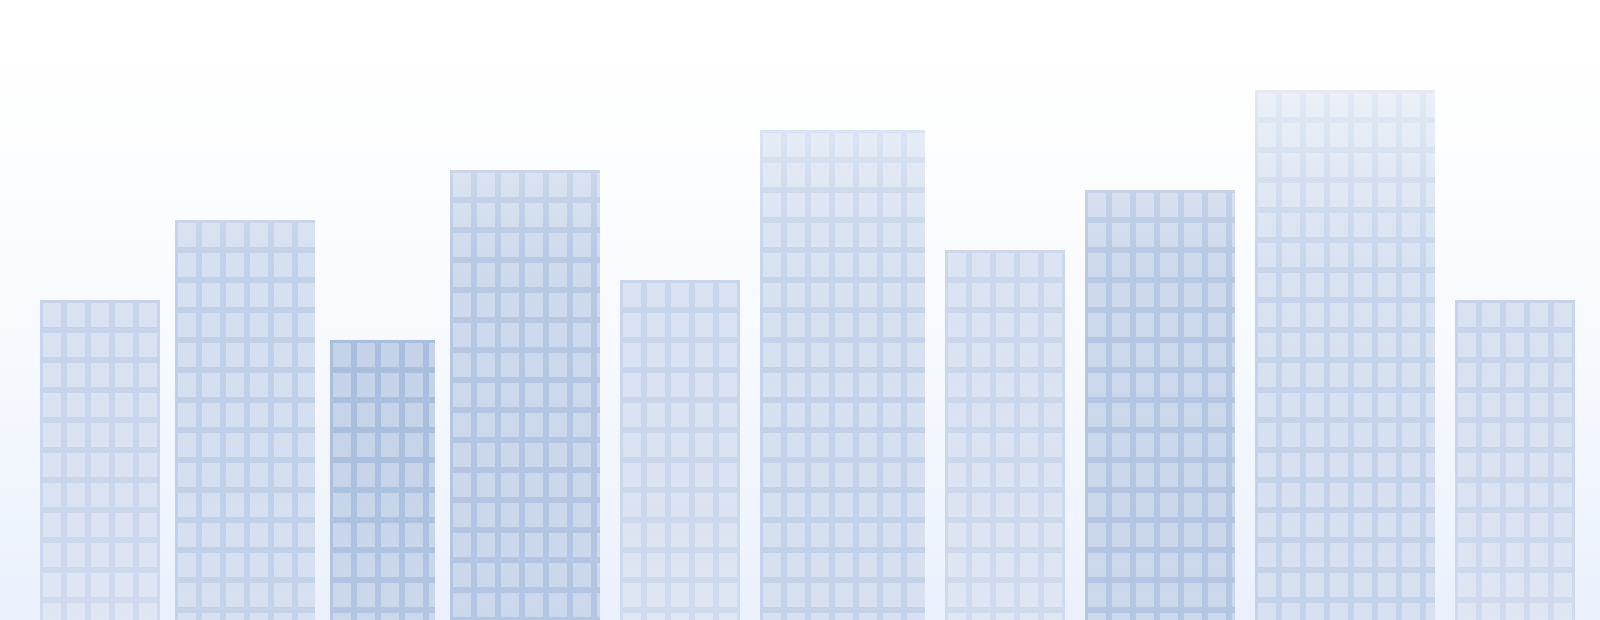
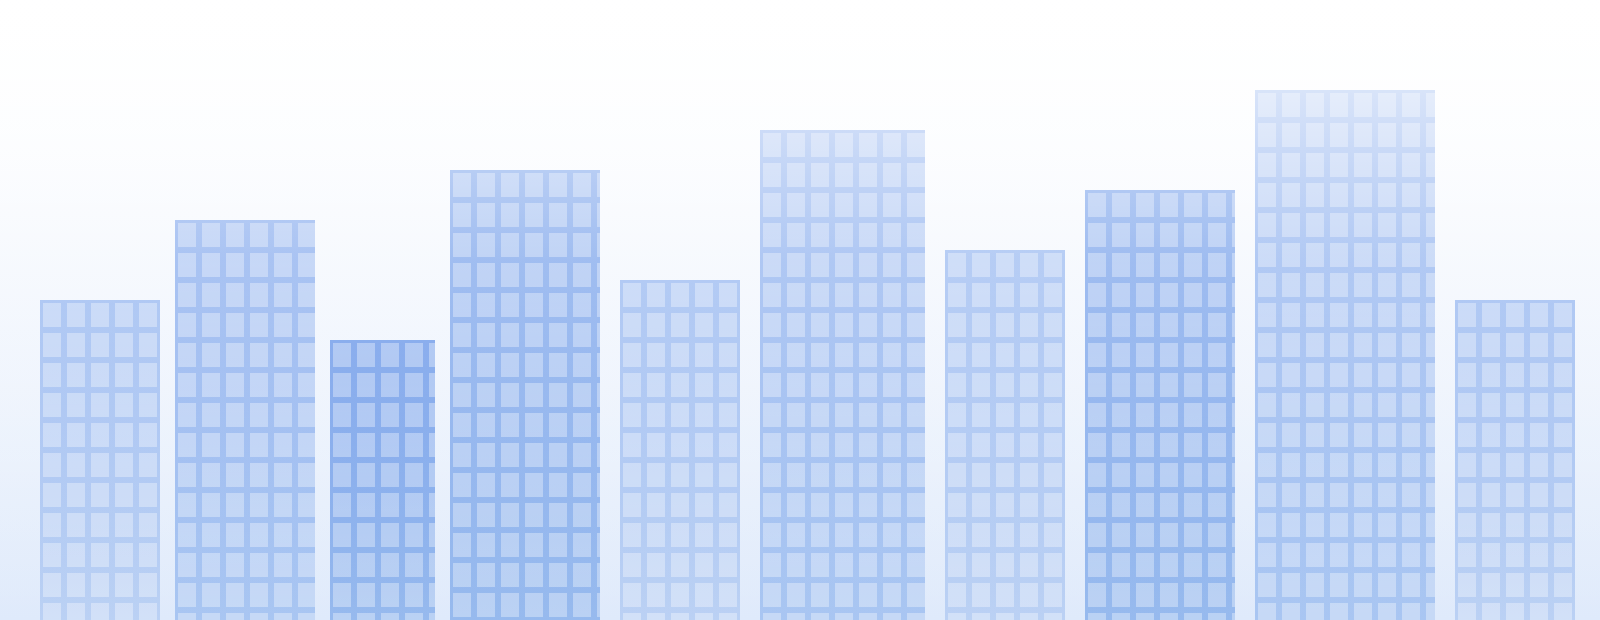
Add files via upload

Changed region(s): [[0.0938, 0.429, 0.375, 1.0], [0.6562, 0.429, 0.9062, 1.0], [0.4688, 0.521, 0.5938, 1.0]]

diff --git a/public/app.html b/public/app.html
@@ -347,10 +347,12 @@ body{font-family:'Inter',system-ui,-apple-system,'Segoe UI',sans-serif}
 .ey,.mono,.brand small,.deal .type,.stats .s .k,.deal .kpis .k,.deal .comm,.deal .ago,.trust,.chip,.bdg,.deal .lock,.f label,.kick{font-family:'Inter',system-ui,sans-serif}
 .brand{font-family:'Inter',system-ui,sans-serif;font-weight:700}
 .brand .wm{font-family:'Inter',system-ui,sans-serif;font-weight:700;letter-spacing:.2em;font-size:19px}
-.btn.acc{background:var(--acc)!important;color:#fff!important;border-radius:7px;box-shadow:none}
-.btn.acc:hover{background:#0056c9!important}
+.btn.acc{background:linear-gradient(135deg,var(--acc) 0%,#2E78EE 55%,var(--acc2) 100%)!important;color:#fff!important;border-radius:7px;box-shadow:none}
+.btn.acc:hover{background:linear-gradient(135deg,#0056c9 0%,#2E78EE 100%)!important}
 .chip.on{background:var(--acc)!important;border-color:var(--acc)!important;color:#fff!important}
-.who .av{background:var(--acc);color:#fff}
+.who .av{background:linear-gradient(135deg,var(--acc),var(--acc2));color:#fff}
+.deal .type{color:var(--acc2)}
+.tick,.stats .s .v.acc,.btn.link{color:var(--acc2)}
 </style>
 <style id="ax-dark-fix">
 /* AXESS dark palette — redefine the design tokens so the whole app flips, not just patches */

diff --git a/public/index.html b/public/index.html
@@ -266,6 +266,19 @@ body{font-family:'Inter',system-ui,-apple-system,'Segoe UI',sans-serif}
 .rf input:focus,.rf textarea:focus{border-color:var(--acc);box-shadow:0 0 0 3px rgba(0,100,229,.12)}
 .rf label .req{color:var(--acc)}
 .foot .links a:hover{color:var(--acc)}
+/* ── more of the lighter blue (#3A86F0) where it lifts the design ── */
+.btn.p{background:linear-gradient(135deg,var(--acc) 0%,#2E78EE 55%,var(--acc2) 100%)}
+.btn.p:hover{background:linear-gradient(135deg,#0056c9 0%,#2E78EE 100%)}
+.hero .btn.p{background:linear-gradient(135deg,var(--acc) 0%,var(--acc2) 100%)!important}
+.hero .ey{color:var(--acc2);background:rgba(58,134,240,.10);border-color:rgba(58,134,240,.28)}
+.hero h1 .u{color:var(--acc2)}
+.step .n{background:linear-gradient(135deg,var(--acc),var(--acc2))}
+.band{background:linear-gradient(120deg,var(--acc) 0%,#2E78EE 60%,var(--acc2) 100%)!important}
+.band .btn.p{background:#fff;color:var(--acc)}
+.stats .s .v.a{color:var(--acc2)}
+.soon,.soon b{}
+.soon .dot{background:var(--acc2)}
+.kick{color:var(--acc2)}
 </style></head>
 <body>
 
